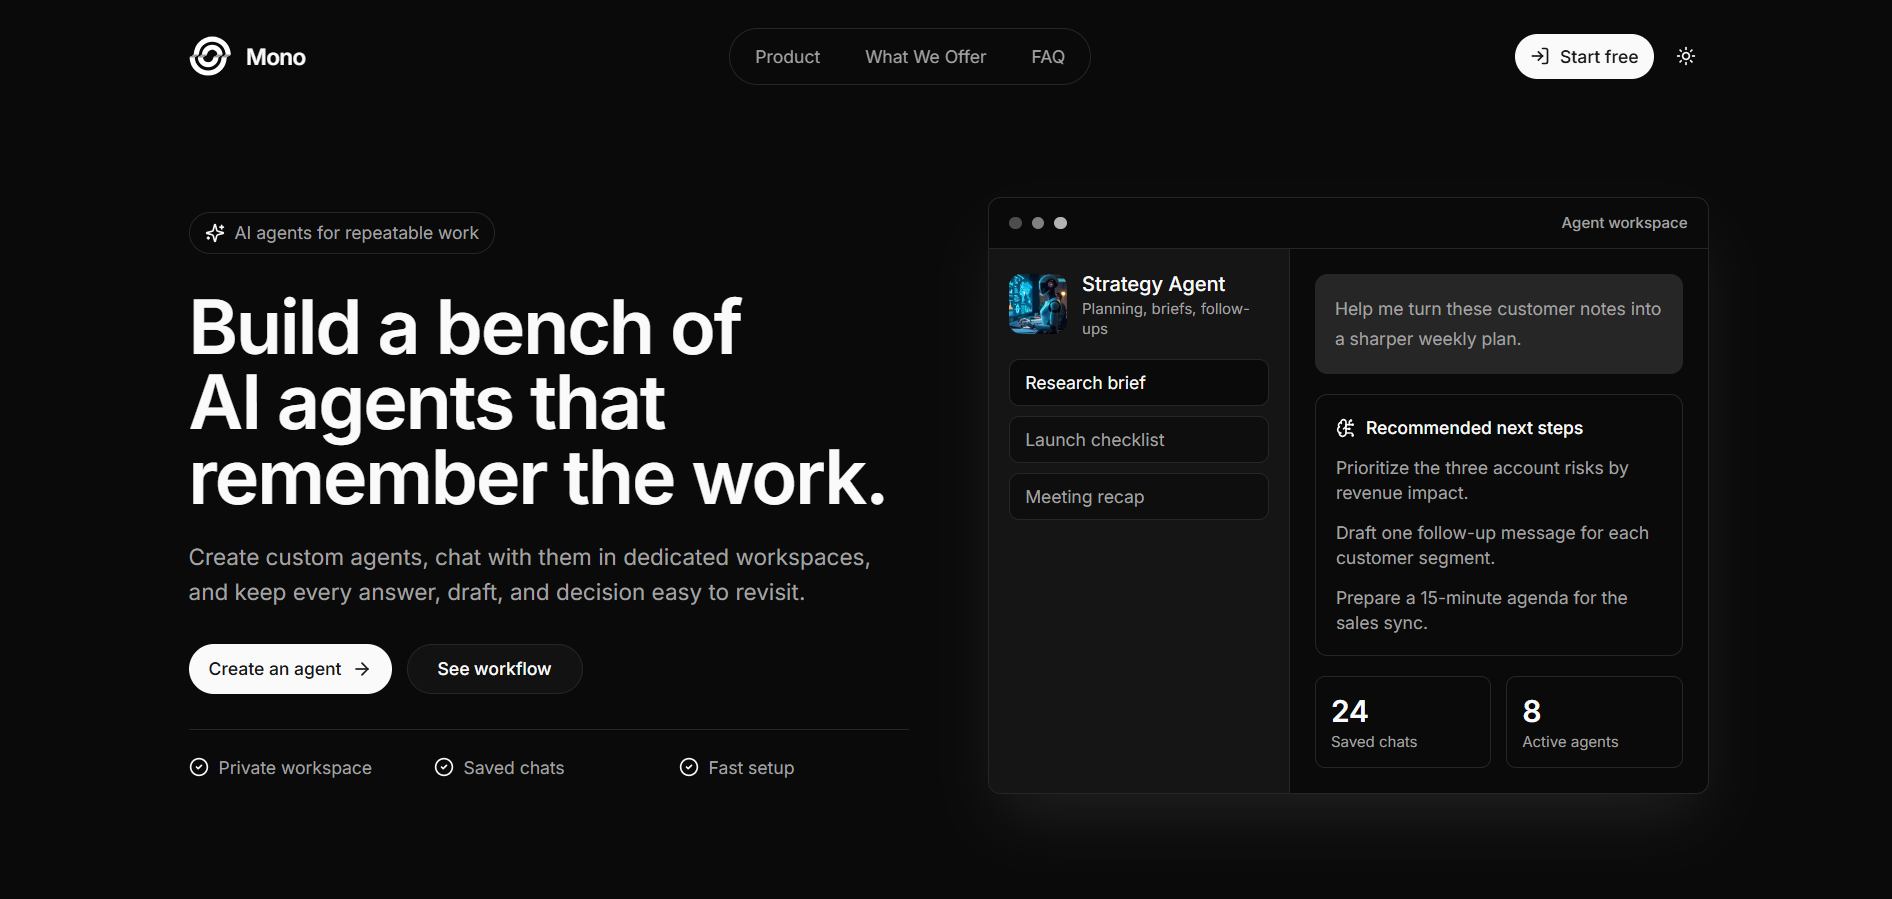
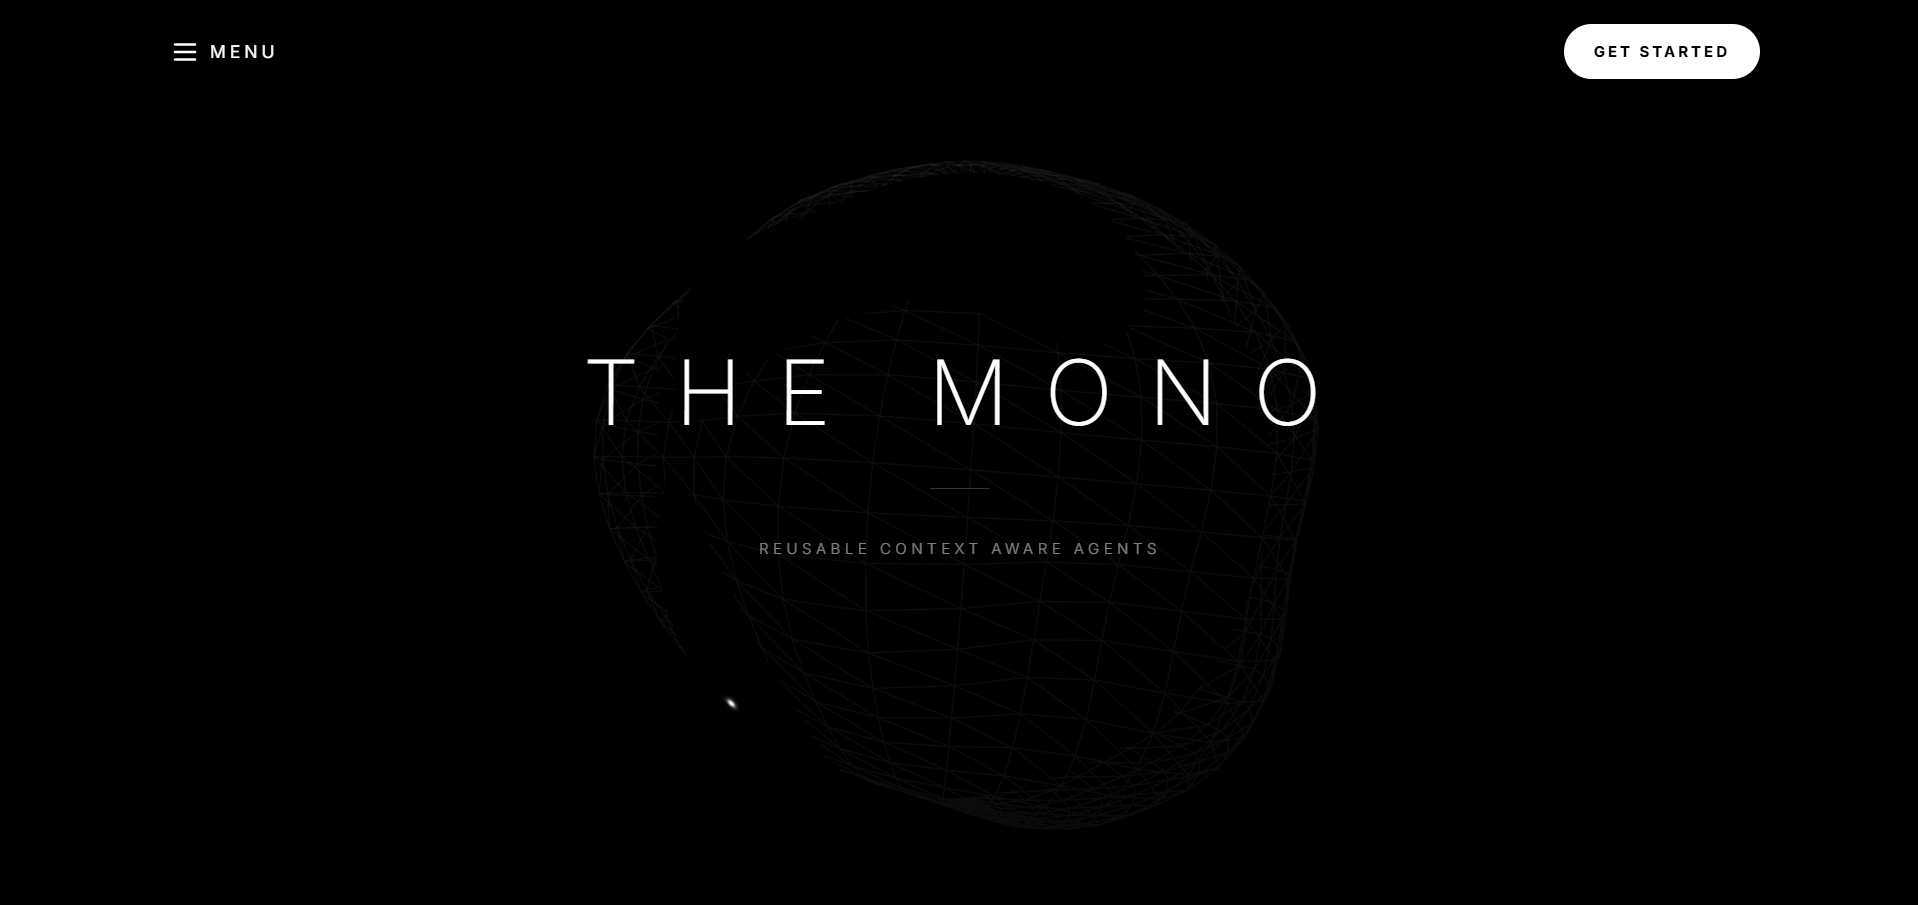
rem: random box component - mock one | updated exp data and projects data

diff --git a/data/components-data.ts b/data/components-data.ts
@@ -31,18 +31,6 @@ export const componentsData: ShowcaseComponent[] = [
     ]
   },
   {
-    id: "random-box",
-    name: "Random Box",
-    description: "A simple interactive box that changes its background color when clicked, perfect for testing routing and live previews.",
-    docs: "### Setup\nNo additional dependencies required.",
-    installation: "pnpm dlx shadcn@latest add https://vinayweb.in/r/random-box.json",
-    usageImport: "import RandomBox from \"@/components/ui/random-box\"",
-    usageCode: `<RandomBox className="my-custom-class" />`,
-    props: [
-      { name: "className", type: "string", default: "-", description: "Optional CSS classes to apply to the box." }
-    ]
-  },
-  {
     id: "pill-scroll",
     name: "Pill Scroll",
     description: "An animated floating scroll navigation menu that shows a table of contents and reading progress.",

diff --git a/data/experience.ts b/data/experience.ts
@@ -33,9 +33,9 @@ export const experiences = [
       technology("Firebase", SiFirebase, "h-5 w-5 text-[#FF6B35]"),
     ],
     responsibilities: [
-      "Built a new Training and Placement Cell website for IIIT Raichur.",
-      "Updated data about PhD student applications and results on the website.",
-      "Improved the UI for the PhD results section.",
+      "Maintain and enhance multiple official web platforms under the iiitr.ac.in domain, contributing to their modernization with a scalable Next.js App Router architecture",
+      "Developed the Training & Placement Cell Portal (tnp-iiitr.vercel.app) using Next.js and Tailwind CSS",
+      "Architected reusable and scalable components, improving development efficiency and maintainability across projects."
     ],
   },
 ];

diff --git a/app/page.tsx b/app/page.tsx
@@ -68,7 +68,7 @@ const Page = () => {
           <Button
             asChild
             variant="outline"
-            className="h-9 md:h-10 text-xs md:text-sm clay hover:-translate-y-1 transition-all duration-300 font-mono tracking-tighter"
+            className="h-9 md:h-10 text-xs md:text-sm clay hover:-translate-y-1! transition-all! duration-300! font-mono tracking-tighter!"
           >
             <Link href='/resume'>
               <SiGoogledocs /> Resume / CV
@@ -77,7 +77,7 @@ const Page = () => {
           <Button
             asChild
             variant="default"
-            className="h-9 md:h-10 text-xs md:text-sm clay bg-foreground! shadow-none! hover:-translate-y-1 transition-all duration-300 font-mono tracking-tighter"
+            className="h-9 md:h-10 text-xs md:text-sm clay! bg-foreground! shadow-none! hover:-translate-y-1! transition-all! duration-300! font-mono tracking-tighter!"
           >
             <Link href='/contact'>
               <SendIcon /> Get in touch

diff --git a/modules/components/demo-registry.tsx b/modules/components/demo-registry.tsx
@@ -3,8 +3,6 @@ import type { ComponentType } from "react";
 
 export const DemoRegistry: Record<string, ComponentType> = {
   "char-animation": dynamic(() => import("@/modules/components/demos/char-animation-demo")),
-  "random-box": dynamic(() => import("@/modules/components/demos/random-box-demo")),
   "pill-scroll": dynamic(() => import("@/modules/components/demos/pill-scroll-demo")),
   "iphone": dynamic(() => import("@/modules/components/demos/iphone-demo")),
-  // Register new component demos here mapping their ID to their dynamic import
 };